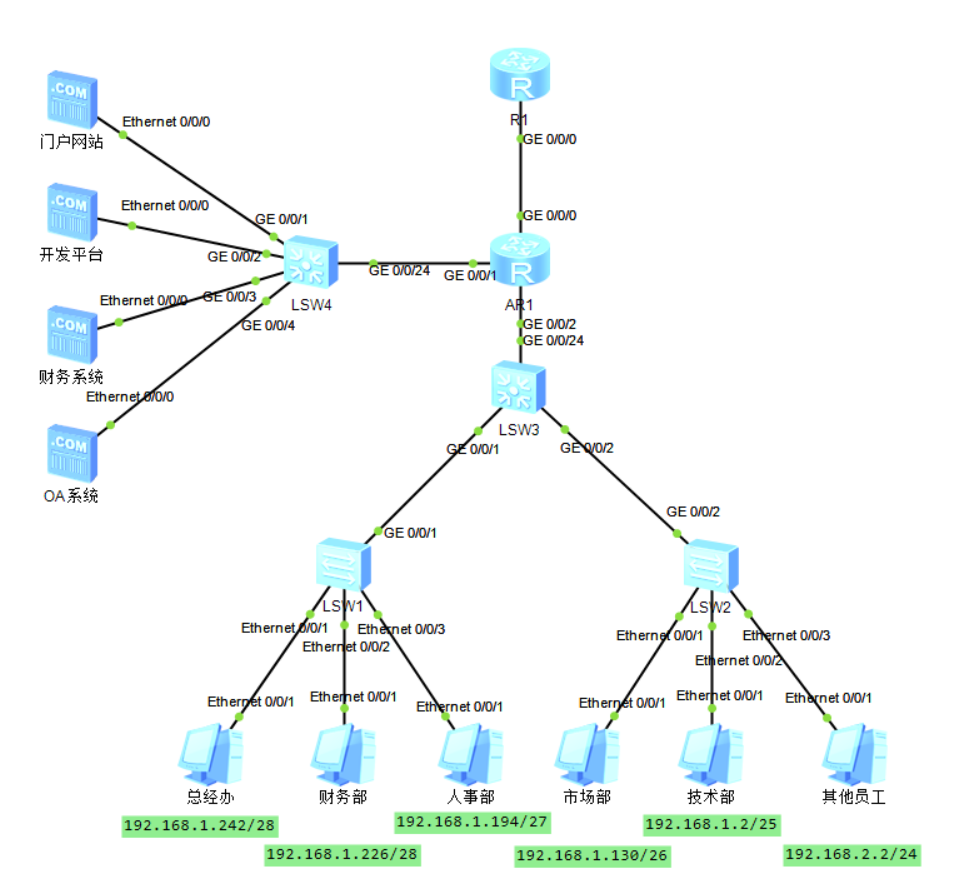
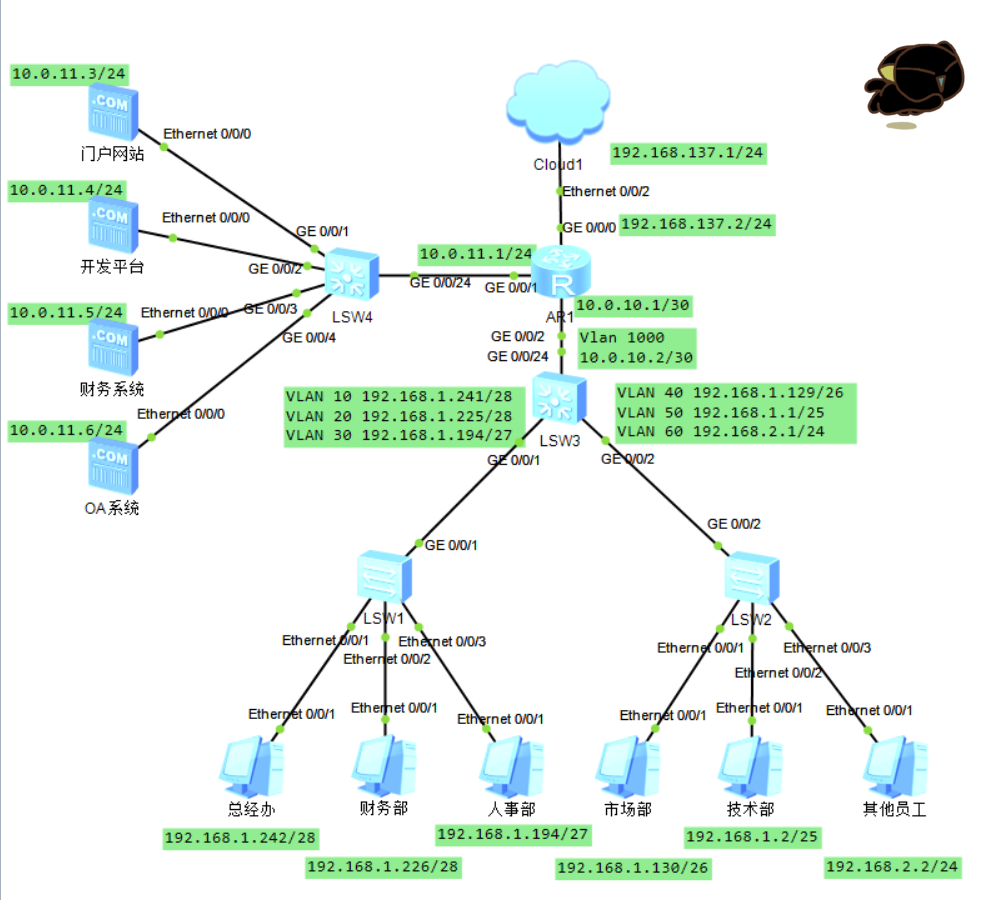
update 2022-03-01-ex-20220301.md

Changed region(s): [[0.0, 0.0309, 0.8806, 0.5863], [0.1215, 0.5554, 0.9717, 1.0], [0.8503, 0.0309, 0.9717, 0.1543]]

diff --git a/_posts/2022-03-01-ex-20220301.md b/_posts/2022-03-01-ex-20220301.md
@@ -49,6 +49,7 @@ summary:
 - 题目未对各部门的网络地址做出要求，故沿用问题 1 中的方案作为该题的背景
 - 最近在尝试接触和摸索华为 eNSP，故使用华为 eNSP 来模拟进行实验
 
+各终端的 IP 地址及网络拓扑结构如下图所示：
 ![](/assets/2022/900.png)
 
 ### 需求 1：各部门之间相互隔离
@@ -215,7 +216,9 @@ summary:
 [DMZSwitch-GigabitEthernet0/0/2]traffic-filter outbound acl 2001
 ```
 
-验证，只有技术部能够访问开发平台
+验证，只有技术部能够访问开发平台，其他部门不可访问
+
+![](/assets/2022/903.png)
 
 ### 需求 4：财务系统只有财务部能访问
 
@@ -234,7 +237,13 @@ summary:
 
 验证，只有财务部能访问财务系统
 
+![](/assets/2022/904.png)
+
 ### 需求 5：所有人都能访问 Internet（外网）
+
+Cloud 1 配置如图所示
+
+![](/assets/2022/905.png)
 
 在 R1 上
 
@@ -251,7 +260,11 @@ summary:
 [L3S]ip route-static 0.0.0.0 0.0.0.0 10.0.10.1
 ```
 
-验证，内外网互通失败
+验证，应当所有人都能访问 Internet
+
+此处因 eNSP 的 bug 无法验证
+
+Cloud 1 的配置过程可以参考：[详解华为模拟器eNSP添加路由器连接互联网_哔哩哔哩](https://www.bilibili.com/video/BV1CU4y1p76u)，视频中同样出现了与我实验相同、eNSP 引起的故障，此问题被用户反映普遍存在，没有可靠的解决方案
 
 ### 需求 6：将门户网站做外网映射
 
@@ -263,8 +276,8 @@ summary:
 
 验证，从外网可以访问门户网站
 
-![](/assets/2022/905.png)
+![](/assets/2022/906.png)
 
 ### 吐槽
 
-华为的 eNSP 真的很难令人满意，糟糕的设备启速度、设备放着不动会莫名其妙掉线
+华为的 eNSP 真的很难令人满意，糟糕的设备启速度、设备放着不动会莫名其妙掉线还有网络上普遍反应存在的外网桥接问题，令实际使用体验很差
